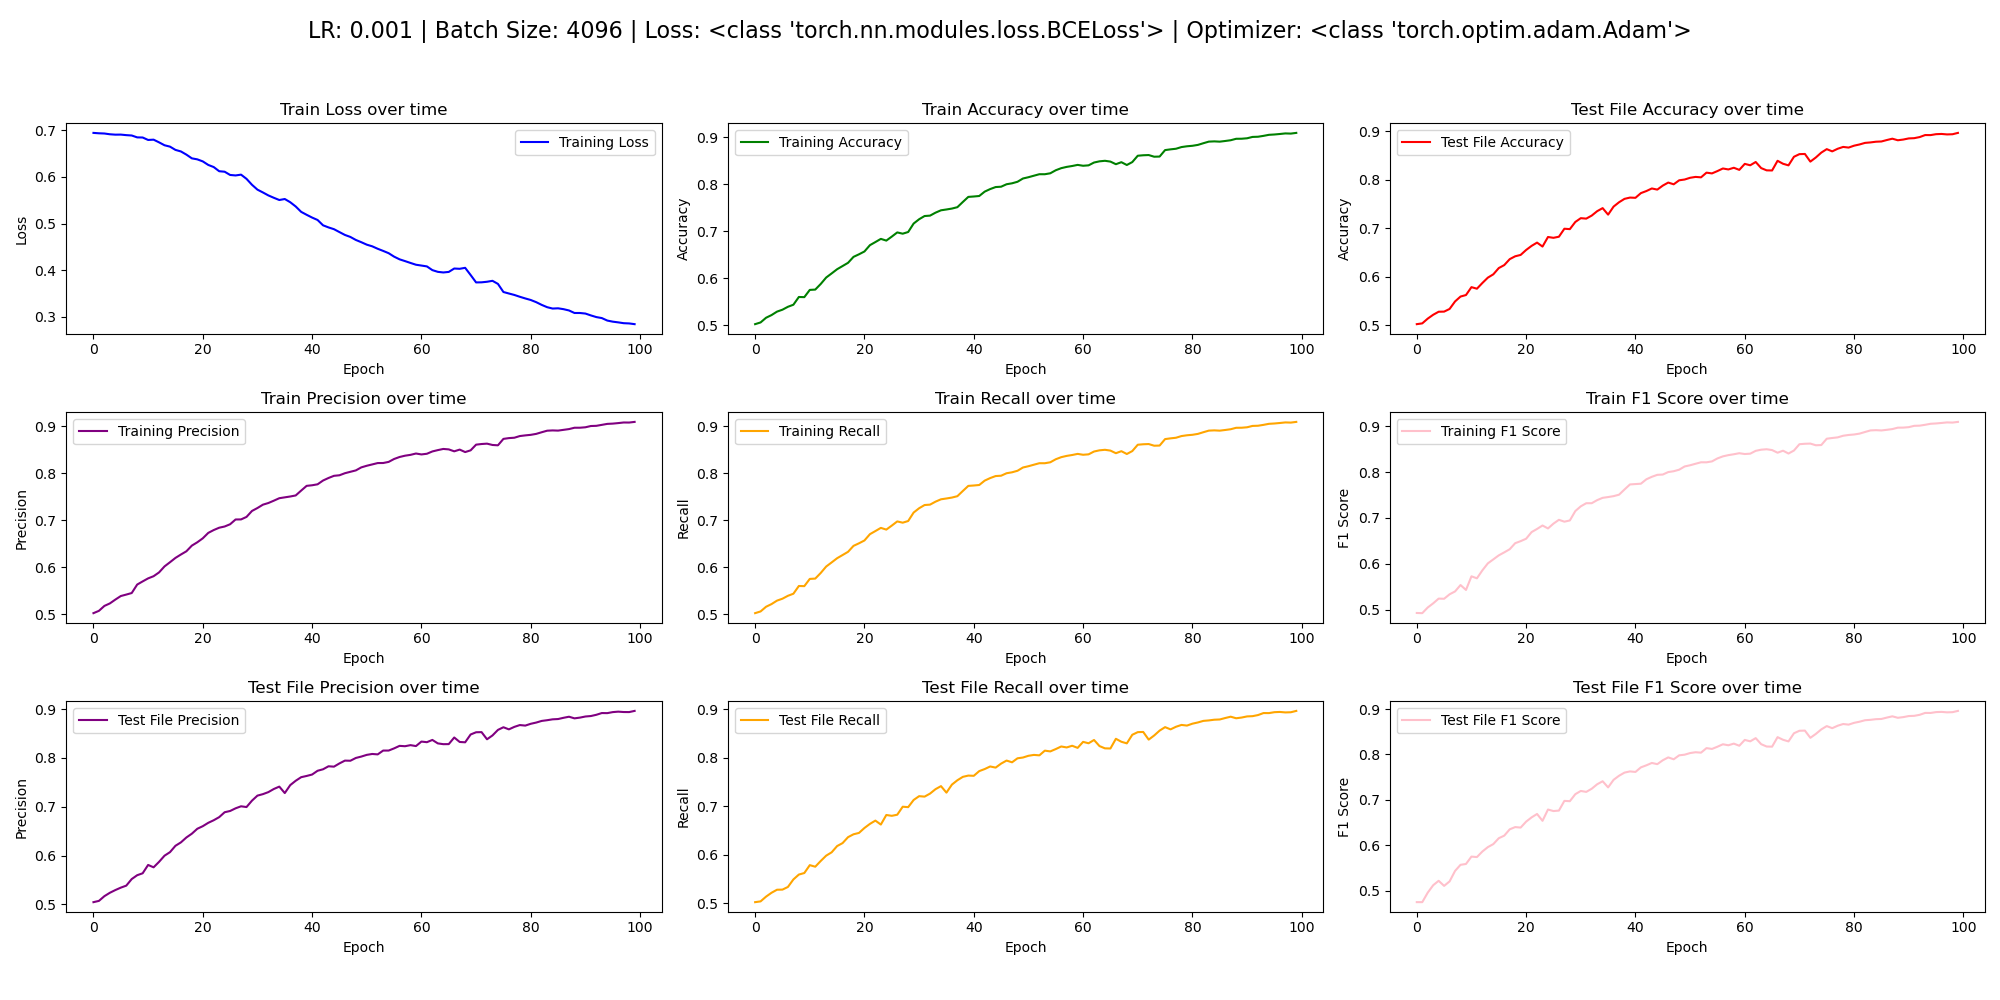
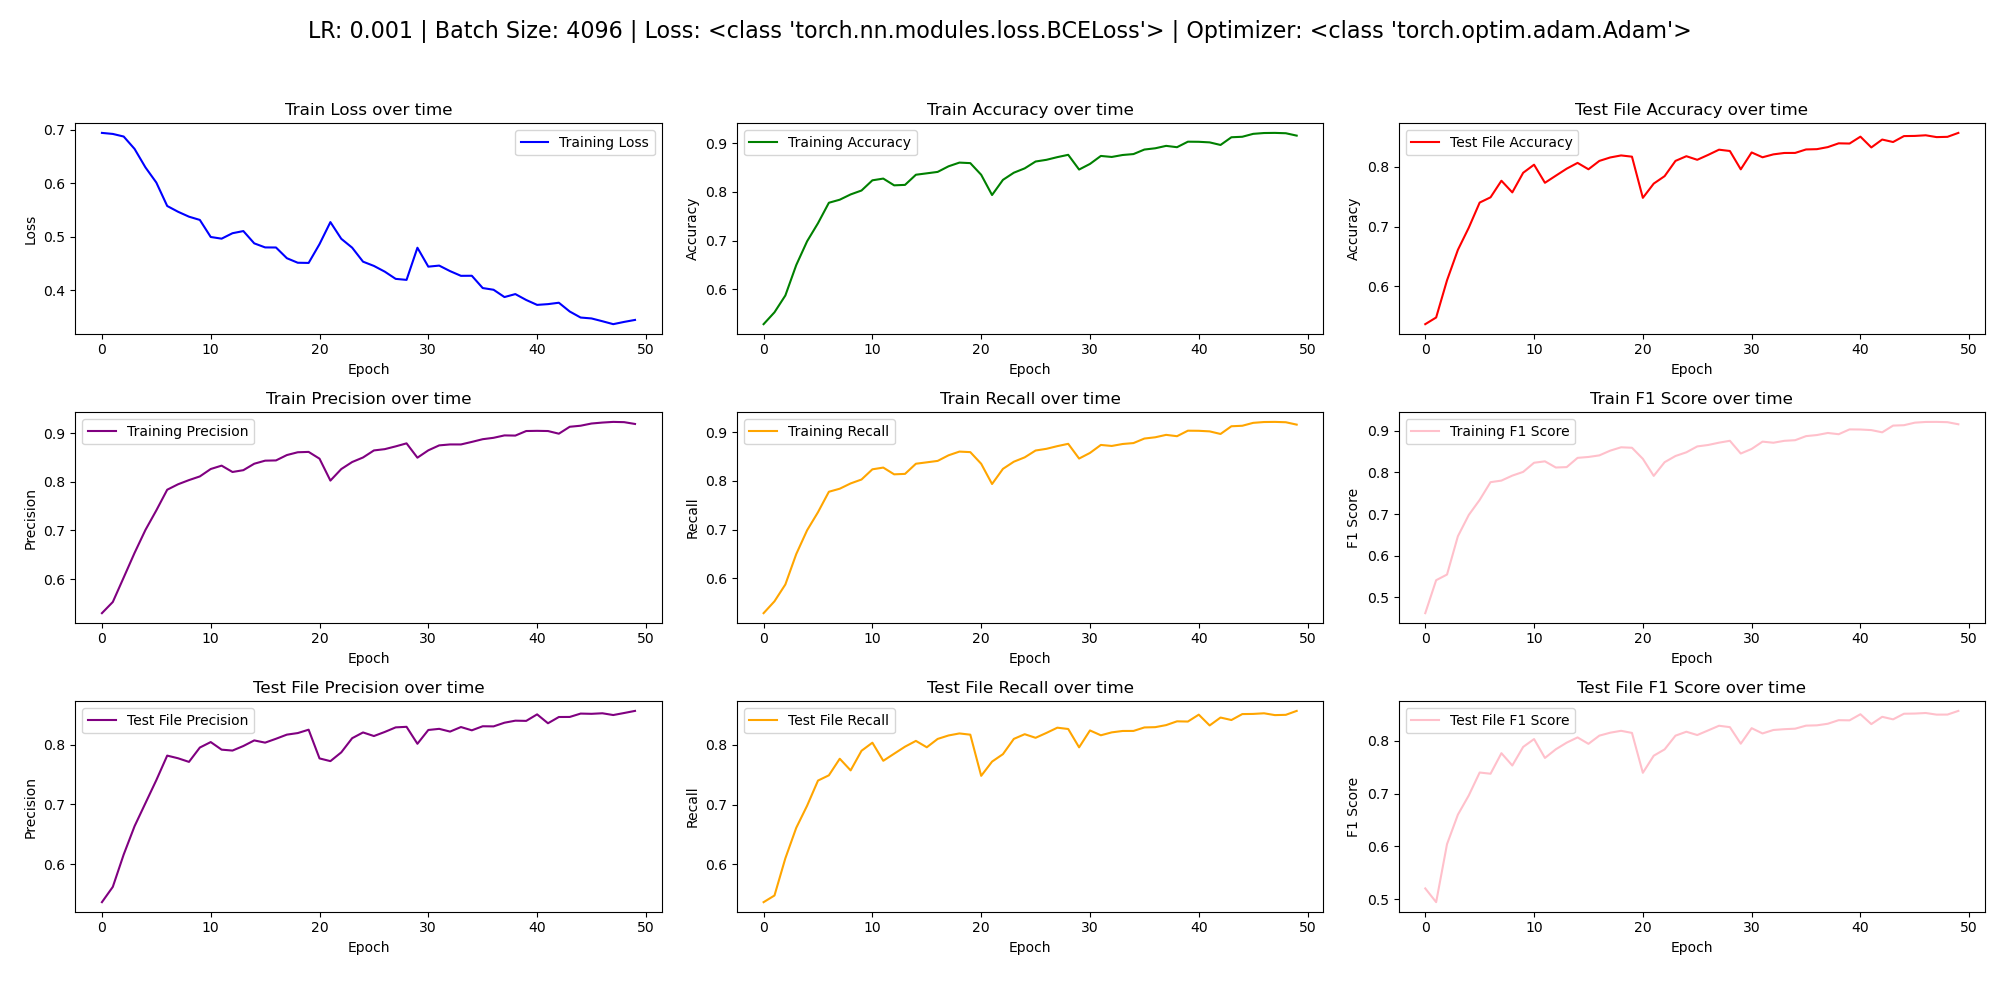
betteer model

diff --git a/code/stage_4_code/Method_Classification_Rnn.py b/code/stage_4_code/Method_Classification_Rnn.py
@@ -52,12 +52,14 @@ class Method_Classification_RNN(method, nn.Module):
         self.embedding = torch.nn.Embedding(vocab_size, embedding_size, padding_idx=0)
 
         #rnn
-        self.rnn = nn.RNN(embedding_size, hidden_size, num_layers=num_rnn_layers, dropout=0.35, batch_first=True, bidirectional=True)
+        self.rnn = nn.RNN(embedding_size, hidden_size, num_layers=num_rnn_layers, dropout=0.2, batch_first=True)
 
 
 
 
-        self.linear = nn.Linear(hidden_size*2, hidden_size)
+        self.linear = nn.Linear(hidden_size, hidden_size)
+        self.dropout1 = nn.Dropout(p=0.2)
+        self.relu1 = nn.ReLU()
         self.linear2 = nn.Linear(hidden_size, output_size)
         self.sigmoid = nn.Sigmoid()
 
@@ -88,6 +90,8 @@ class Method_Classification_RNN(method, nn.Module):
         x = self.embedding(x)
         x, hidden = self.rnn(x)
         x = self.linear(x[:, -1])
+        x = self.dropout1(x)
+        x = self.relu1(x)
         x = self.linear2(x)
         x = torch.squeeze(x)
         x = self.sigmoid(x)
@@ -98,7 +102,7 @@ class Method_Classification_RNN(method, nn.Module):
 
     def train(self, X, y, test_data: None):
         # check here for the torch.optim doc: https://pytorch.org/docs/stable/optim.html
-        optimizer = self.optimizer(self.parameters(), lr=self.learning_rate)
+        optimizer = self.optimizer(self.parameters(), lr=self.learning_rate, weight_decay=1e-4)
         # check here for the nn.CrossEntropyLoss doc: https://pytorch.org/docs/stable/generated/torch.nn.CrossEntropyLoss.html
         loss_function = self.loss_function()
         # for training accuracy investigation purpose
@@ -169,13 +173,13 @@ class Method_Classification_RNN(method, nn.Module):
                     test_batch_precision = 0
                     test_batch_recall = 0
                     test_batch_f1 = 0
-                    num_test_batches = X.shape[0] / self.batch_size + 1
+                    num_test_batches = np.ceil(test_data['X'].shape[0] / self.batch_size)
                     y_pred = []
-                    for batch_index in range(0, X.shape[0], self.batch_size):
+                    for batch_index in range(0, test_data['X'].shape[0], self.batch_size):
                         test_data_y_pred = self.forward(
-                            torch.tensor(X[batch_index:batch_index + self.batch_size], device=self.device)).cpu()
+                            torch.tensor(test_data['X'][batch_index:batch_index + self.batch_size], device=self.device)).cpu()
                         y_pred.extend(test_data_y_pred)
-                        test_data_y_true = y[batch_index:batch_index + self.batch_size]
+                        test_data_y_true = test_data['y'][batch_index:batch_index + self.batch_size]
                         self.metrics_evaluator.data = {'true_y': test_data_y_true,
                                                        'pred_y': test_data_y_pred.round().cpu()}
                         accuracy, precision, recall, f1 = self.metrics_evaluator.evaluate()
@@ -287,14 +291,15 @@ class Method_Classification_RNN(method, nn.Module):
         test_batch_precision = 0
         test_batch_recall = 0
         test_batch_f1 = 0
-        num_test_batches = X.shape[0] / self.batch_size + 1
+        num_test_batches = np.ceil(X.shape[0] / self.batch_size)
         y_pred = []
         for batch_index in range(0, X.shape[0], self.batch_size):
             test_data_y_pred = self.forward(
                 torch.tensor(X[batch_index:batch_index + self.batch_size], device=self.device)).cpu()
             y_pred.extend(test_data_y_pred)
             test_data_y_true = y[batch_index:batch_index + self.batch_size]
-            self.metrics_evaluator.data = {'true_y': test_data_y_true, 'pred_y': test_data_y_pred.round().cpu()}
+            self.metrics_evaluator.data = {'true_y': test_data_y_true,
+                                           'pred_y': test_data_y_pred.round().cpu()}
             accuracy, precision, recall, f1 = self.metrics_evaluator.evaluate()
             test_batch_acc += accuracy
             test_batch_precision += precision

diff --git a/code/stage_4_code/Classification_Dataset_Loader.py b/code/stage_4_code/Classification_Dataset_Loader.py
@@ -57,10 +57,12 @@ class Classification_Dataset_Loader(dataset):
                 punctuation_removed_text += c
         sentence_words = punctuation_removed_text.split(' ')
         cleaned_words = [porter.stem(word) for word in sentence_words if word.isalpha() and (word not in stop_words)]
-        trunced_sentence = cleaned_words[:55]
+        half = len(cleaned_words)//2
+        trunced_sentence = cleaned_words[:30] + cleaned_words[half-15:half+15] + cleaned_words[-30:]
         return trunced_sentence
 
     def sentence_to_word_dic_encoded(self, sentence):
+
         result_sentence = []
         for word in sentence:
             if word not in self.data['word_dic']:

diff --git a/script/stage_4_script/classification.py b/script/stage_4_script/classification.py
@@ -10,15 +10,15 @@ import torch
 
 ### Configs
 
-embedding_size = 7
-hidden_size=64
+embedding_size = 1000
+hidden_size=40
 output_size = 1
 learning_rate = 0.001
 batch_size = 4096
-num_rnn_layers = 7
+num_rnn_layers = 6
 loss_function = torch.nn.BCELoss
 optimizer = torch.optim.Adam
-max_epochs = 100
+max_epochs = 50
 
 ###
 
